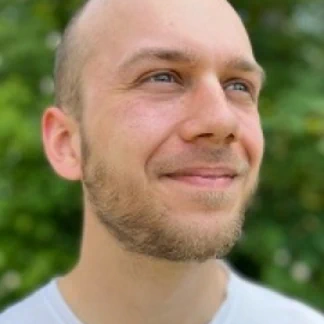
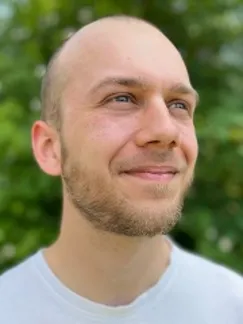
Update team member photo properties and optimize images

diff --git a/layouts/partials/team-card.html b/layouts/partials/team-card.html
@@ -3,6 +3,7 @@
   {{ $title := .title }}
   {{ $photoStyle := "" }}
   {{ with .photo_scale }}{{ $photoStyle = printf "%s--team-photo-scale: %v;" $photoStyle . }}{{ end }}
+  {{ with .photo_position }}{{ $photoStyle = printf "%s--team-photo-position: %s;" $photoStyle . }}{{ end }}
   {{ with .photo_origin }}{{ $photoStyle = printf "%s--team-photo-origin: %s;" $photoStyle . }}{{ end }}
   {{ if .homepage }}
   <a href="{{ .homepage }}" rel="noopener noreferrer" target="_blank" class="team-photo-link" aria-label="Visit {{ .name }} homepage">

diff --git a/assets/css/main.css b/assets/css/main.css
@@ -678,6 +678,7 @@ ul, ol {
   width: 100%;
   height: 100%;
   object-fit: cover;
+  object-position: var(--team-photo-position, 50% 50%);
   transform: scale(var(--team-photo-scale, 1));
   transform-origin: var(--team-photo-origin, center center);
 }
